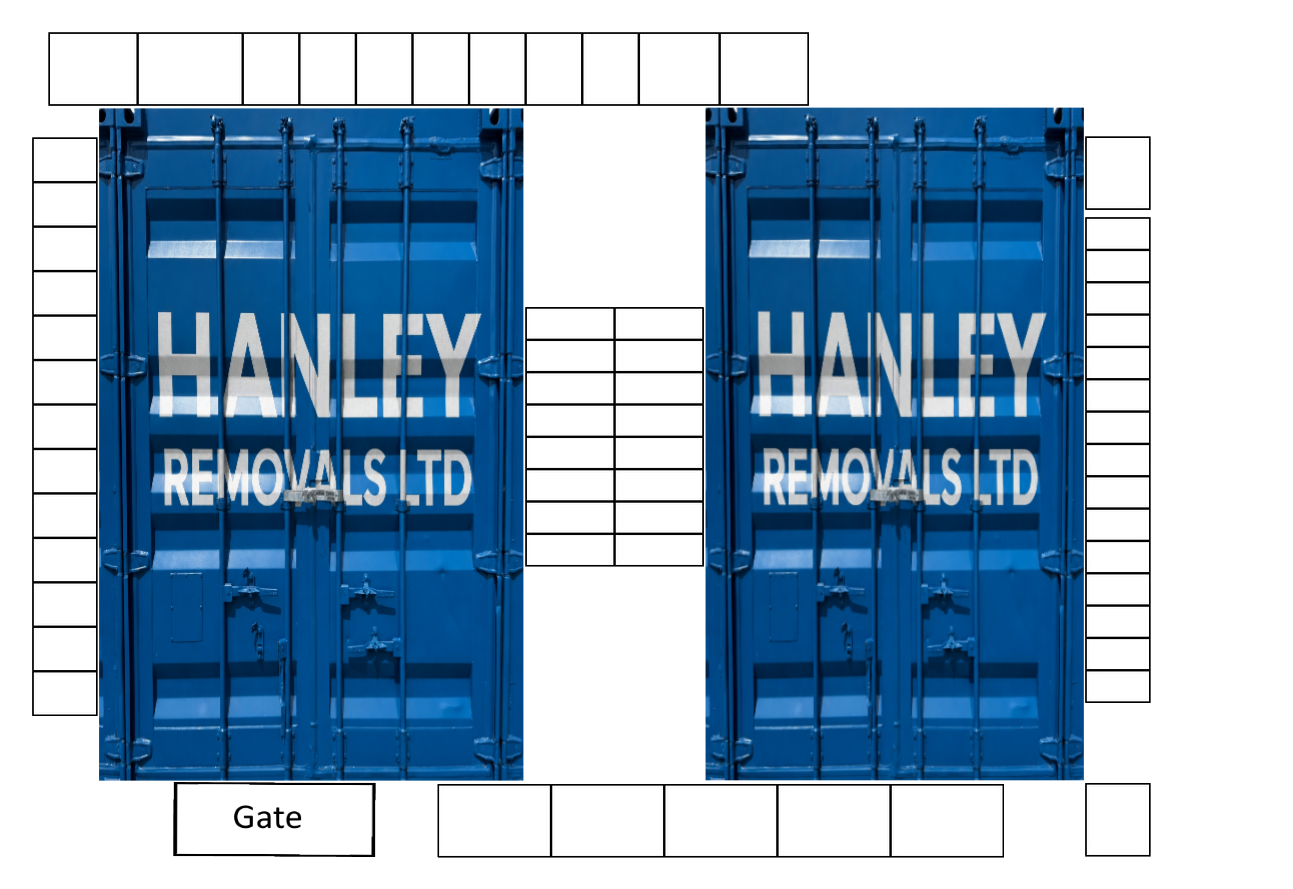
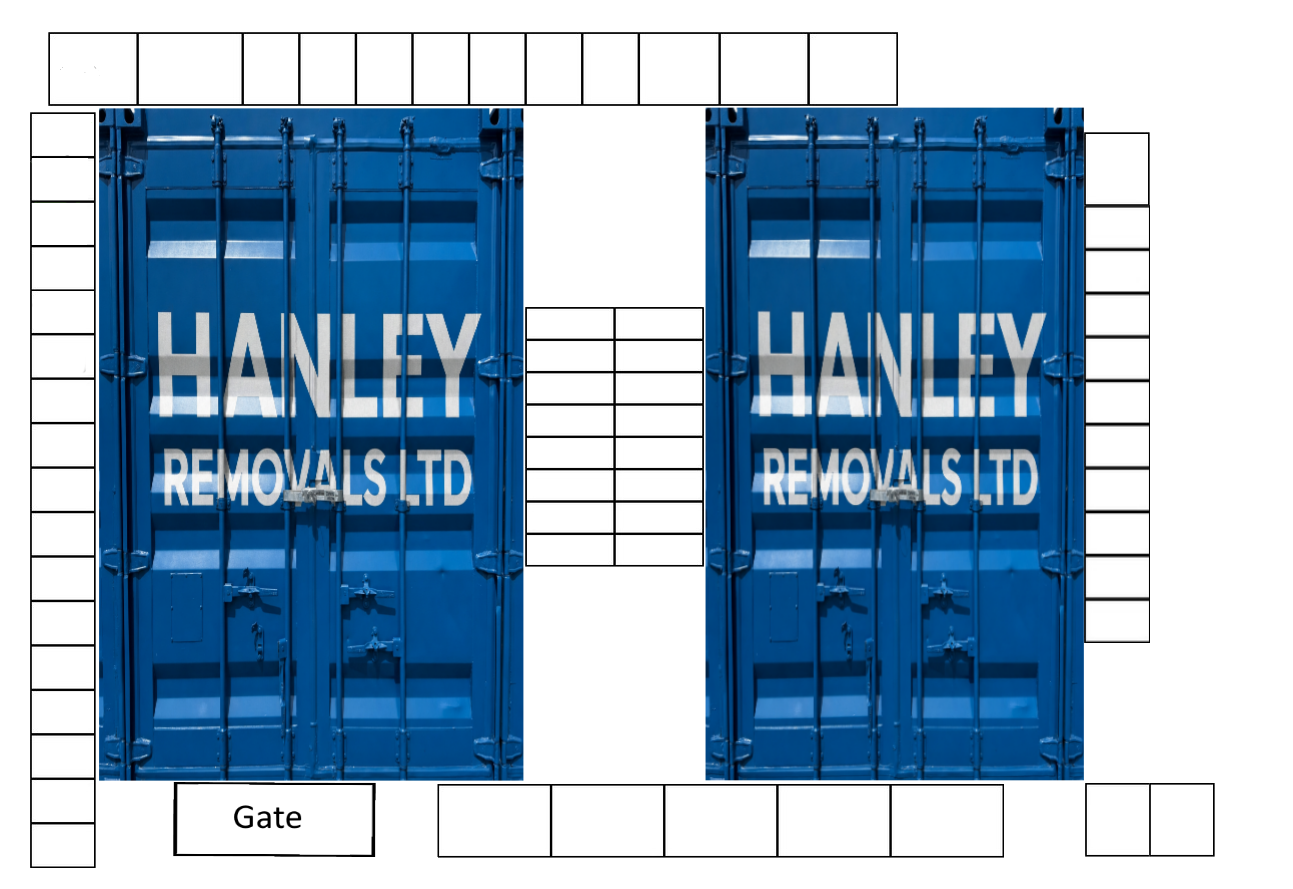
Update Wicklow Yard B container layout

diff --git a/yard1-supabase.js b/yard1-supabase.js
@@ -326,6 +326,10 @@
       return cells;
     }
 
+    function assignIds(cells, ids) {
+      return cells.map((cell, index) => ({ ...cell, id: ids[index] }));
+    }
+
     const WICKLOW_A_REMOVED_CONTAINERS = new Set([
       'WA-012',
       'WA-013',
@@ -344,7 +348,7 @@
       { xs: [235, 336, 437, 538, 639, 740, 841, 942], ys: [786, 857] }
     ]).filter((container) => !WICKLOW_A_REMOVED_CONTAINERS.has(container.id));
 
-    const WICKLOW_B_CONTAINERS = makeCells('WB', [
+    const WICKLOW_B_BASE_CONTAINERS = makeCells('WB', [
       { xs: [48, 138, 243, 299, 356, 412, 469, 526, 582, 639, 720, 809], ys: [33, 105] },
       { xs: [32, 97], ys: [138, 183, 227, 272, 316, 361, 405, 450, 494, 539, 583, 628, 672, 716] },
       { xs: [1085, 1151], ys: [138, 210] },
@@ -353,6 +357,60 @@
       { xs: [437, 551, 664, 778, 891, 1004], ys: [786, 857] },
       { xs: [1085, 1151], ys: [786, 857] }
     ]);
+
+    const WICKLOW_B_LEFT_COLUMN = assignIds(
+      makeCells('WB', [{
+        xs: [30, 95],
+        ys: [113, 156, 201, 245, 290, 333, 378, 422, 467, 511, 556, 600, 645, 689, 734, 778, 823, 867]
+      }]),
+      [
+        'WB-063', 'WB-064', 'WB-065', 'WB-066',
+        'WB-012', 'WB-013', 'WB-014', 'WB-015', 'WB-016', 'WB-017', 'WB-018',
+        'WB-019', 'WB-020', 'WB-021', 'WB-022', 'WB-023', 'WB-024'
+      ]
+    ).map((container, index) => ({
+      ...container,
+      defaultName: index < 4 ? `WS${index + 60}` : `WS${63 - index}`
+    }));
+
+    const WICKLOW_B_RIGHT_COLUMN = assignIds(
+      makeCells('WB', [{
+        xs: [1084, 1150],
+        ys: [206, 250, 293, 337, 381, 424, 468, 512, 555, 599, 643]
+      }]),
+      ['WB-026', 'WB-027', 'WB-028', 'WB-029', 'WB-030', 'WB-031', 'WB-032', 'WB-033', 'WB-034', 'WB-035']
+    );
+
+    const WICKLOW_B_TOP_RIGHT_CONTAINER = cell('WB-025', 1084, 133, 1150, 206);
+
+    const WICKLOW_B_TOP_ADDITION = {
+      id: 'WB-067',
+      defaultName: 'WS75',
+      x: 809,
+      y: 33,
+      width: 89,
+      height: 72
+    };
+
+    const WICKLOW_B_BOTTOM_RIGHT_EXISTING = cell('WB-062', 1085, 783, 1150, 855);
+    const WICKLOW_B_BOTTOM_RIGHT_ADDITION = {
+      ...cell('WB-068', 1150, 783, 1214, 855),
+      defaultName: 'WS87'
+    };
+
+    const WICKLOW_B_CONTAINERS = [
+      ...WICKLOW_B_BASE_CONTAINERS.filter((container) => Number(container.id.slice(3)) <= 11),
+      WICKLOW_B_TOP_ADDITION,
+      ...WICKLOW_B_LEFT_COLUMN,
+      WICKLOW_B_TOP_RIGHT_CONTAINER,
+      ...WICKLOW_B_RIGHT_COLUMN,
+      ...WICKLOW_B_BASE_CONTAINERS.filter((container) => {
+        const number = Number(container.id.slice(3));
+        return number >= 41 && number !== 62;
+      }),
+      WICKLOW_B_BOTTOM_RIGHT_EXISTING,
+      WICKLOW_B_BOTTOM_RIGHT_ADDITION
+    ];
 
     const yardConfigs = {
       newtown: {
@@ -674,7 +732,7 @@
       const rows = getContainers().map((container) => ({
         yard_id: yardId,
         internal_code: container.id,
-        display_name: container.id,
+        display_name: container.defaultName || container.id,
         size_ft: Number(inferSize(container)),
         status: 'available',
         updated_by: staffId
@@ -755,7 +813,7 @@
           rentalId: activeRental?.id || null,
           customerId: customer?.id || null,
           status: fromDbStatus(row?.status || 'available'),
-          name: row?.display_name || container.id,
+          name: row?.display_name || container.defaultName || container.id,
           size: String(row?.size_ft || inferSize(container)),
           customer: customer?.name || '',
           phone: customer?.phone || '',
